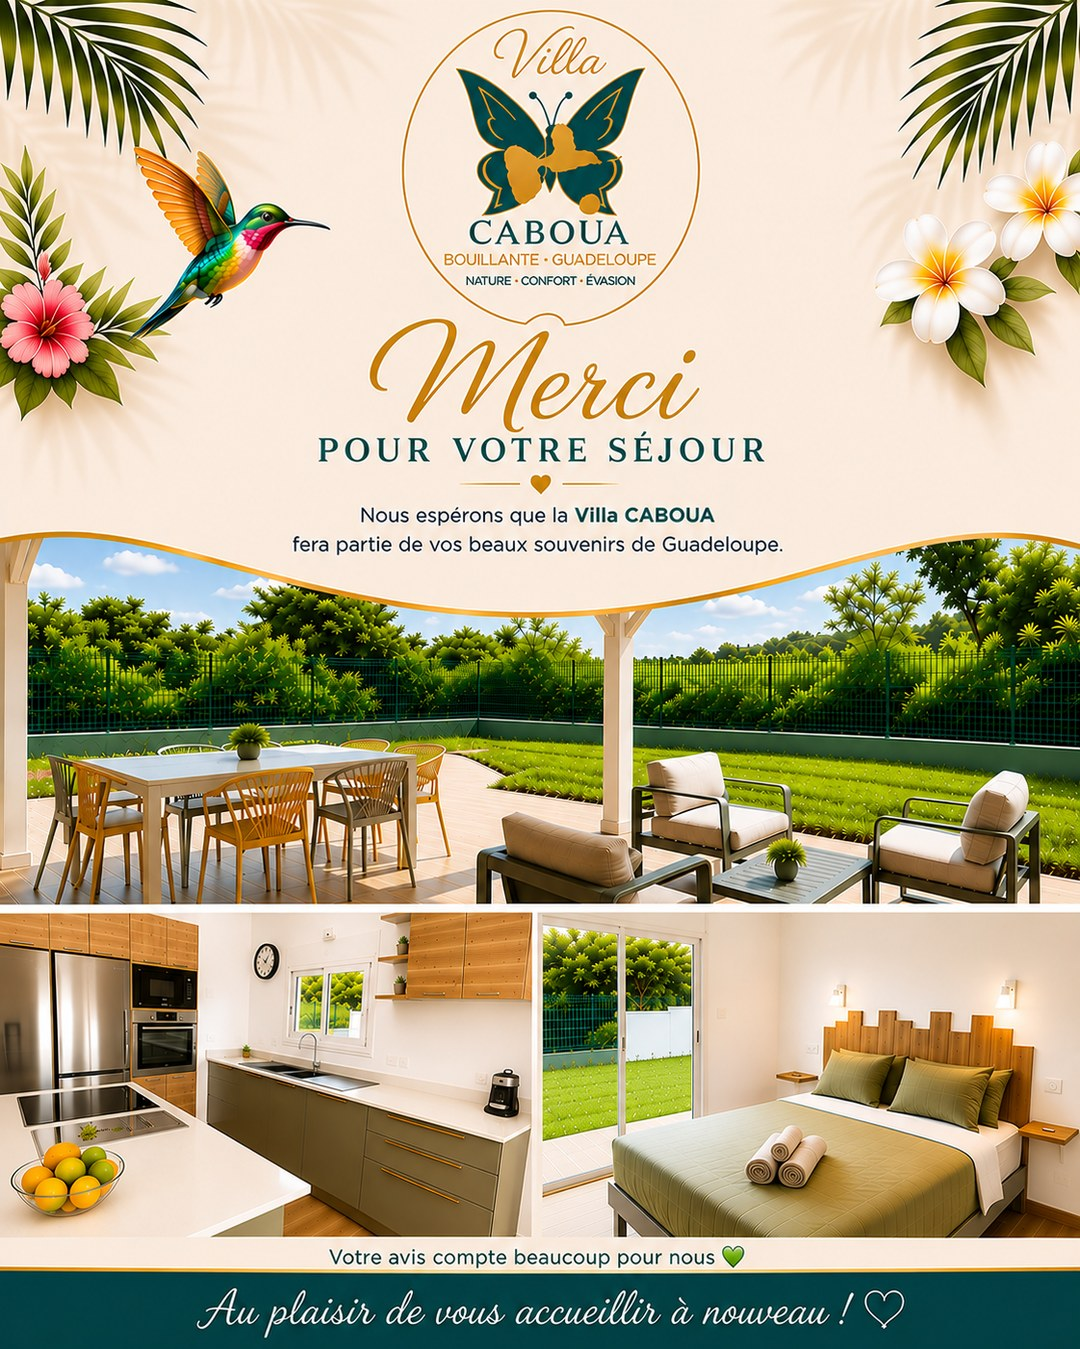
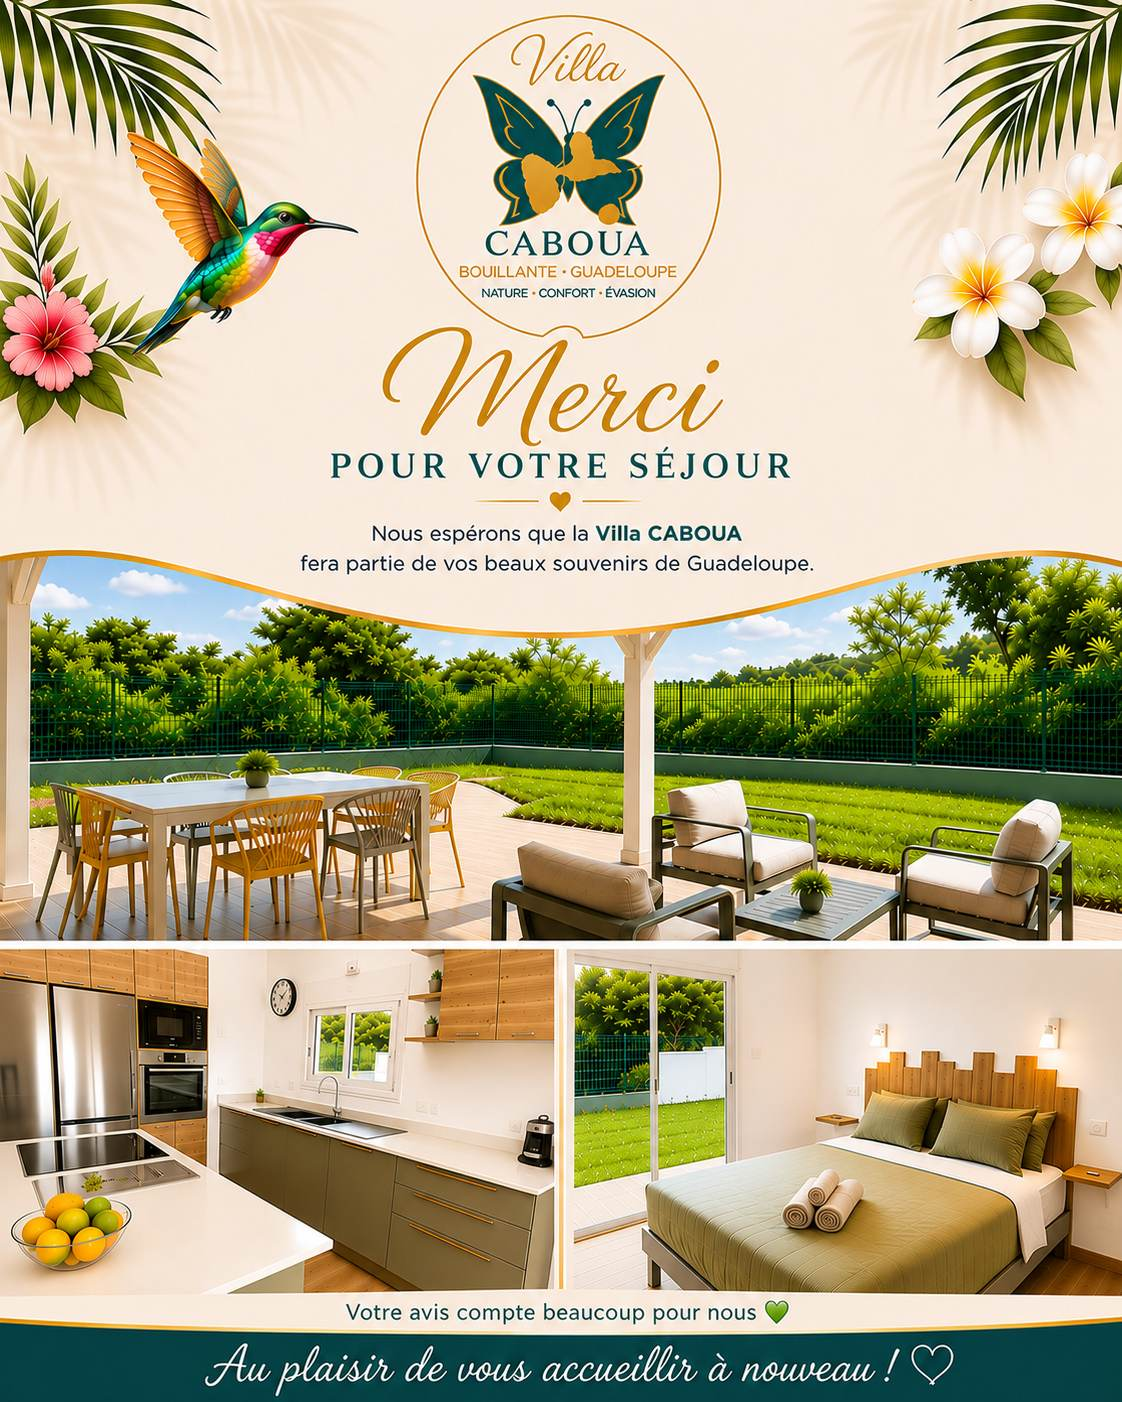
Carte Merci allegee (241 Ko, 1122x1402) + recalage du prenom

diff --git a/index.html b/index.html
@@ -194,20 +194,20 @@ async function genererCarte(prenom) {
   var ctx = cv.getContext('2d');
   ctx.drawImage(im, 0, 0);
   if (prenom) {
-    ctx.fillStyle = '#FBEBDE';                 // crème échantillonné sur la carte
-    ctx.fillRect(120, 418, 840, 66);           // masque « POUR VOTRE SÉJOUR »
+    ctx.fillStyle = '#F8EADA';                 // crème échantillonné sur la carte
+    ctx.fillRect(125, 436, 872, 52);           // masque « POUR VOTRE SÉJOUR »
     var nom = prenom.toUpperCase();
-    var tracking = 14, size = 60;
+    var tracking = 15, size = 62;
     function largeur(s) {
       ctx.font = 'bold ' + s + 'px Georgia, "Times New Roman", serif';
       var w = 0; for (var i = 0; i < nom.length; i++) w += ctx.measureText(nom[i]).width;
       return w + tracking * (nom.length - 1);
     }
-    while (largeur(size) > 820 && size > 26) size -= 2;
+    while (largeur(size) > 860 && size > 26) size -= 2;
     ctx.font = 'bold ' + size + 'px Georgia, "Times New Roman", serif';
-    ctx.fillStyle = '#1A433E';                 // vert échantillonné sur la carte
+    ctx.fillStyle = '#1B433F';                 // vert échantillonné sur la carte
     ctx.textAlign = 'center'; ctx.textBaseline = 'middle';
-    var total = largeur(size), x = 540 - total / 2, cy = 451;
+    var total = largeur(size), x = 561 - total / 2, cy = 463;
     for (var j = 0; j < nom.length; j++) {
       var w = ctx.measureText(nom[j]).width;
       ctx.fillText(nom[j], x + w / 2, cy);
